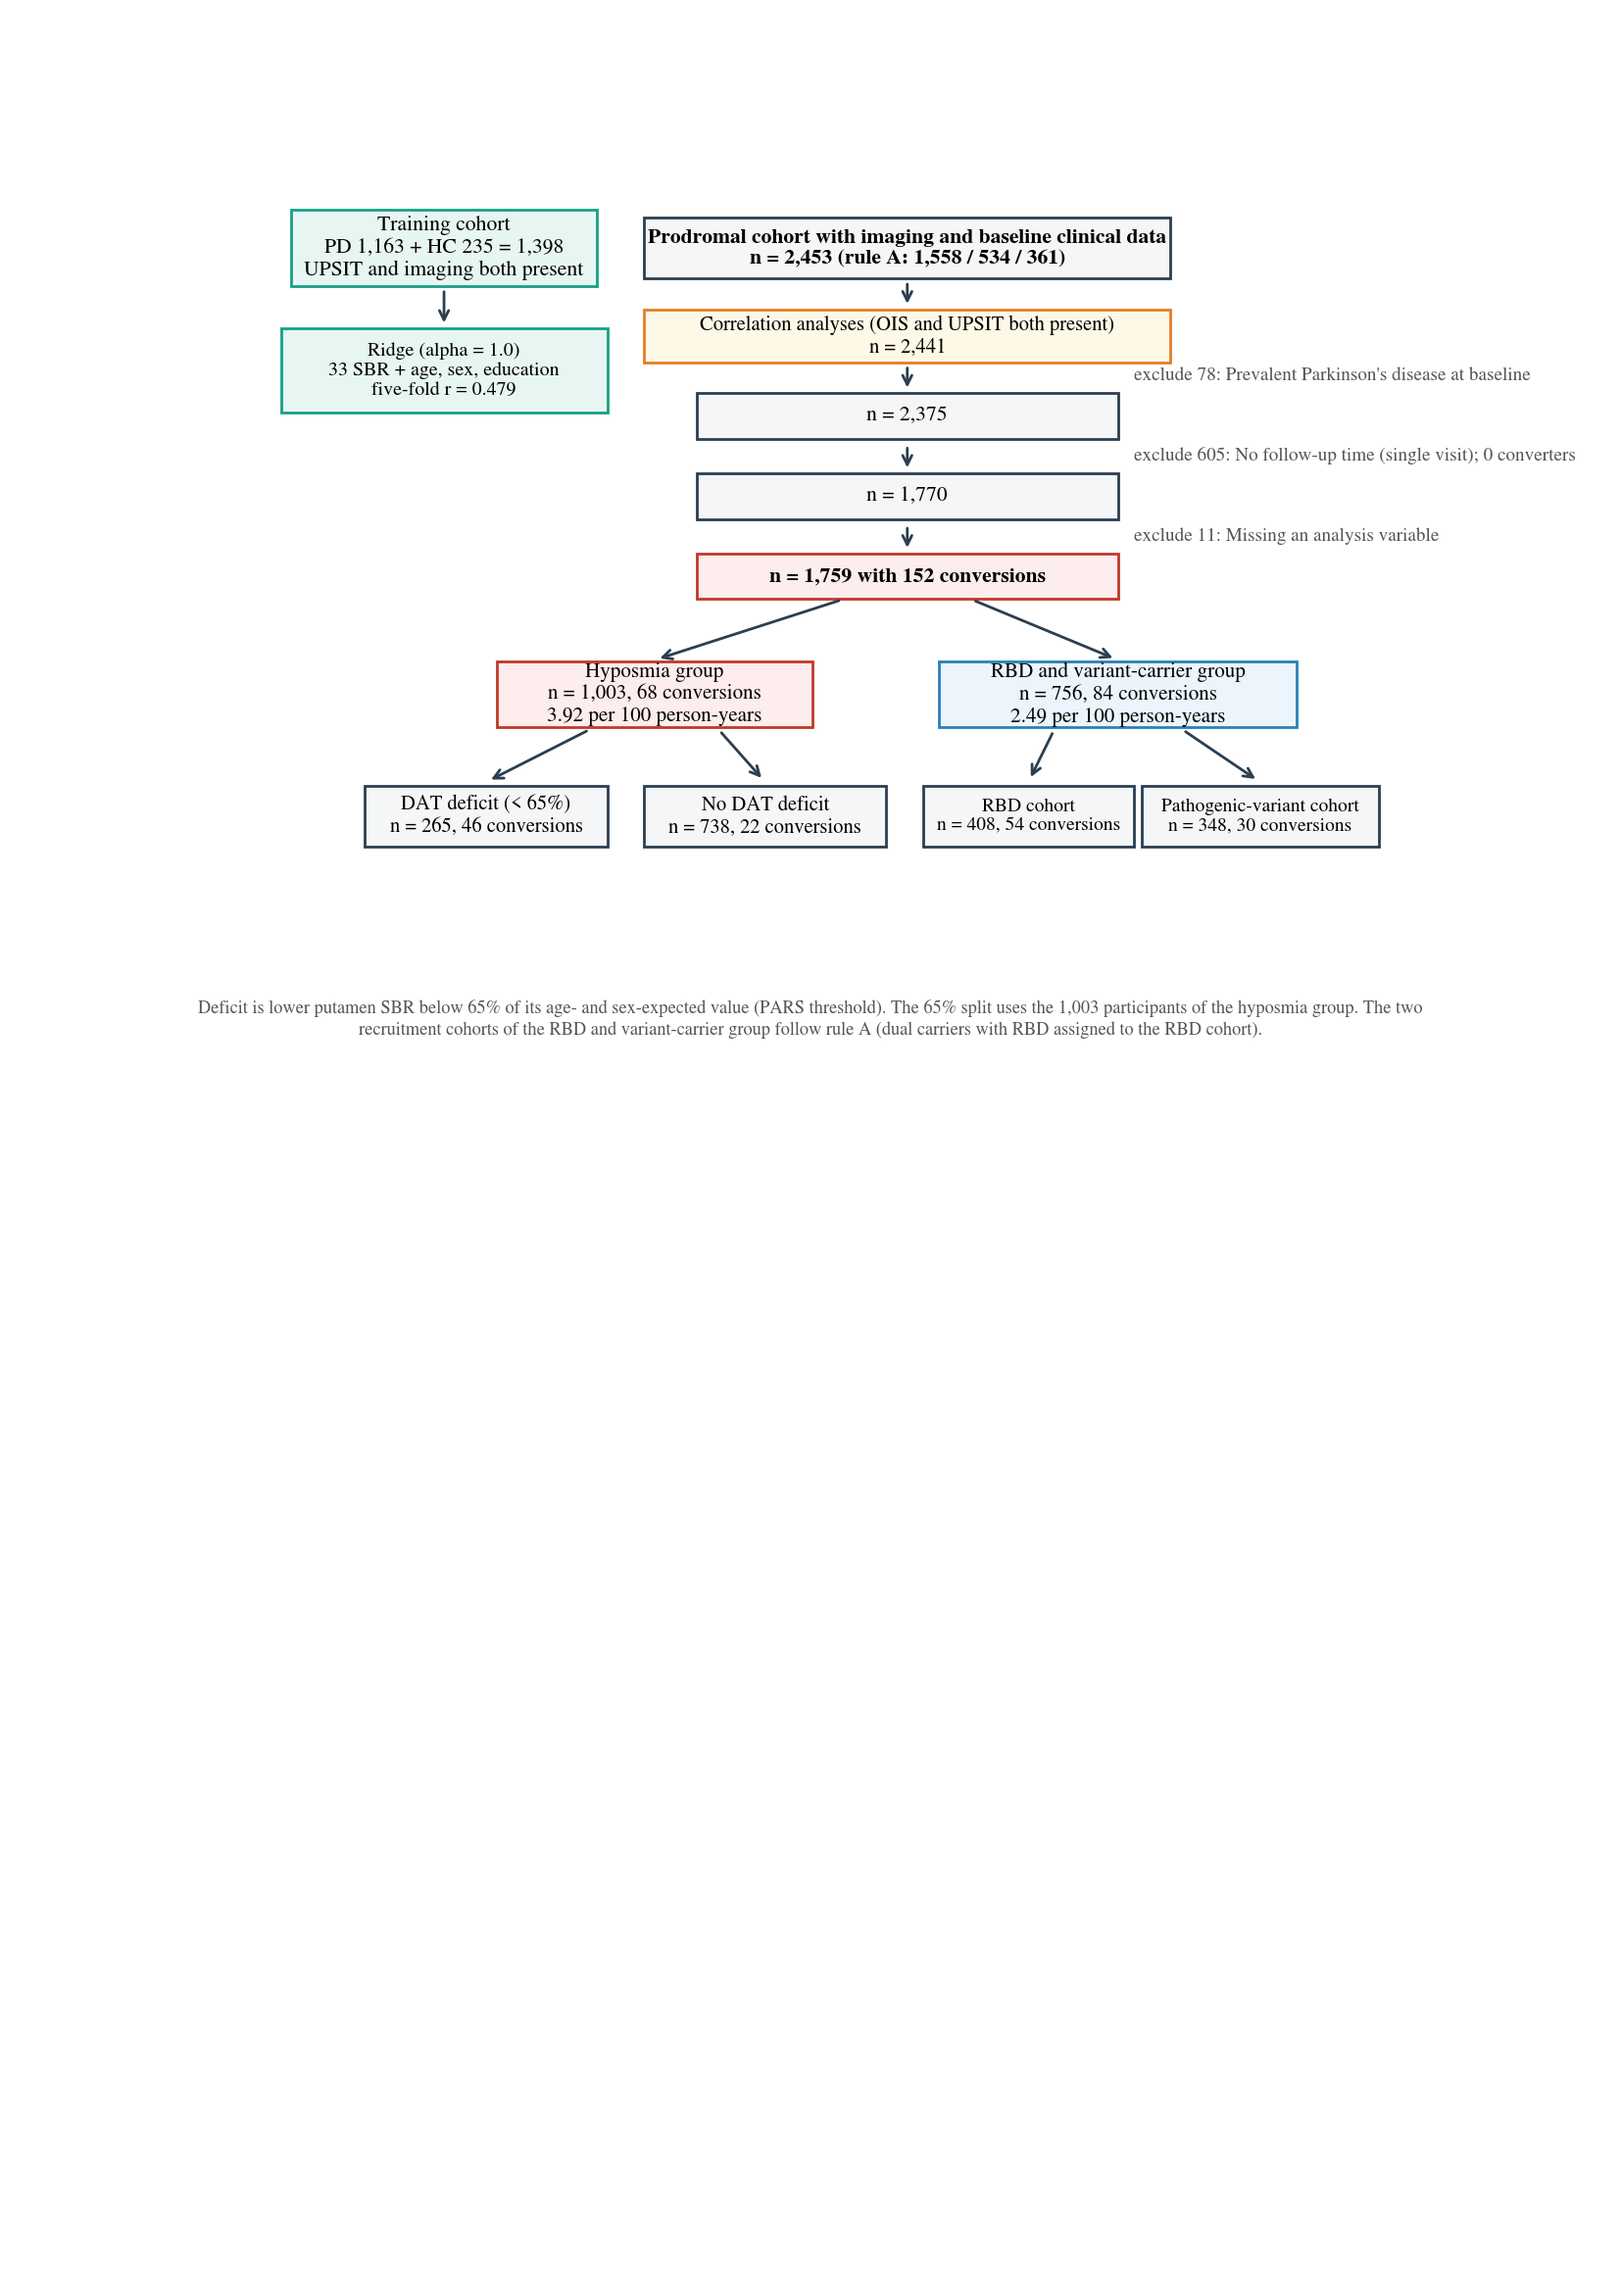
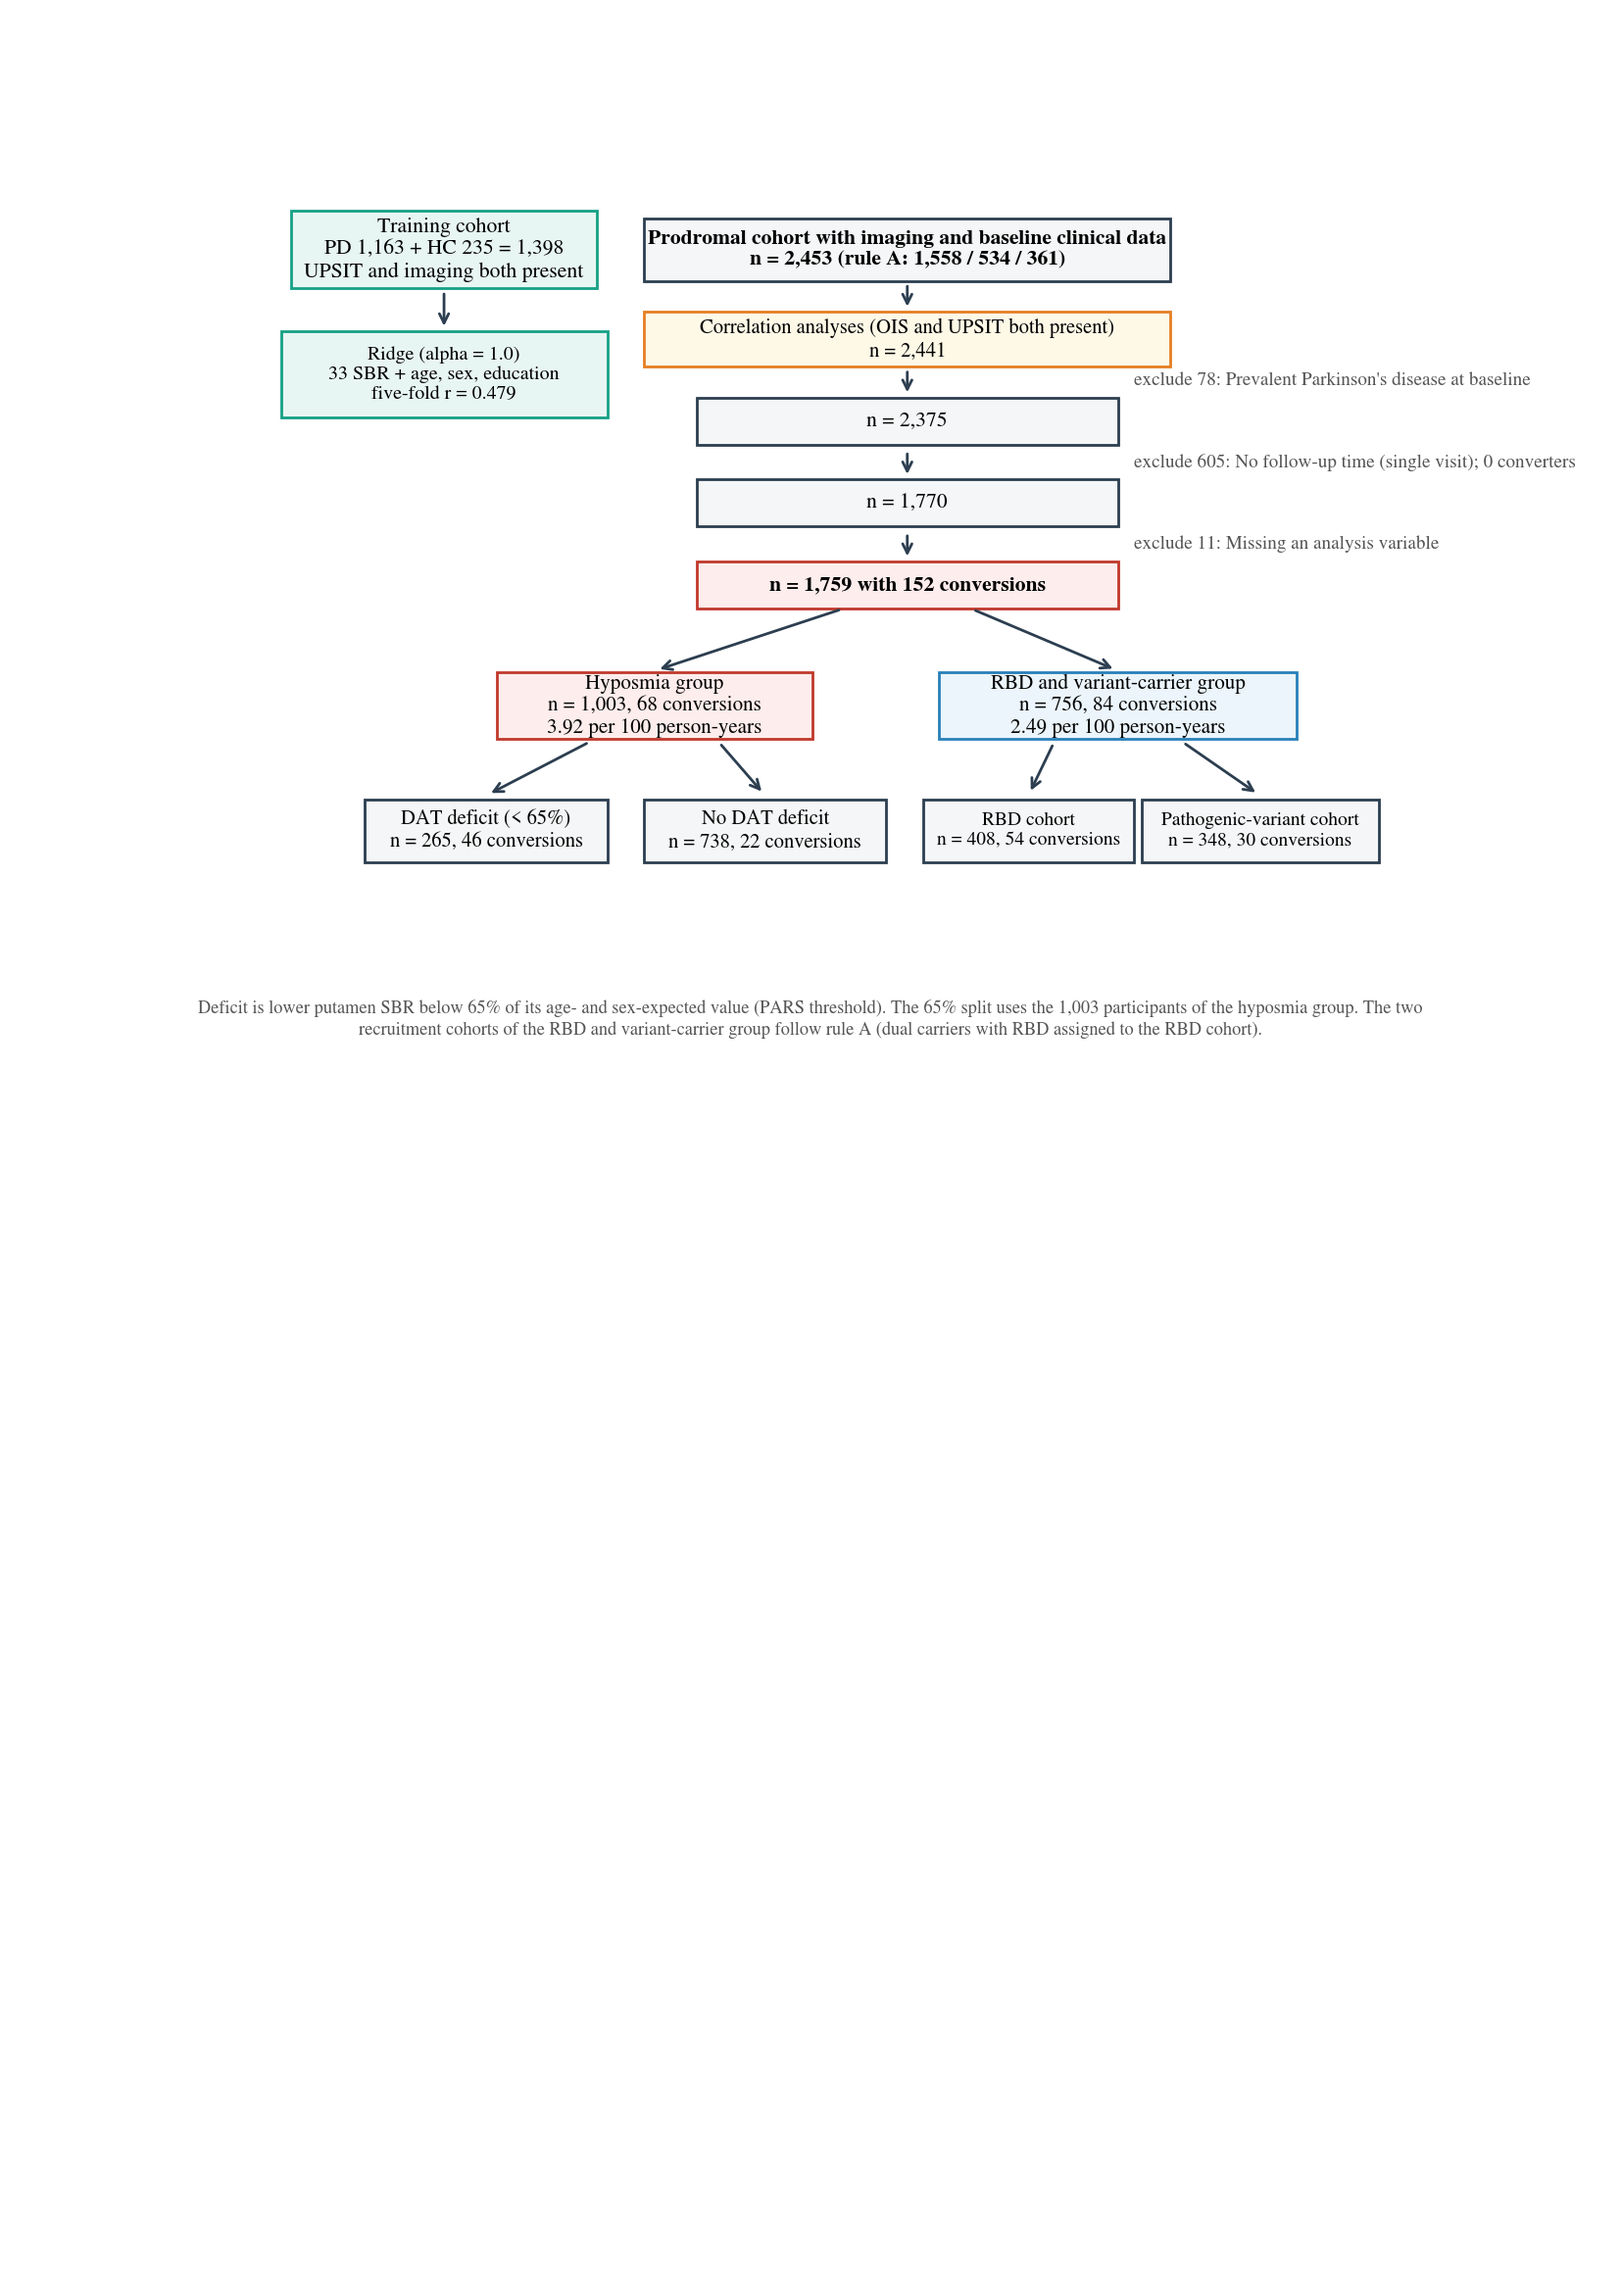
Supplementary Fig 1: tighten the space under the flow chart

diff --git a/code/10_supplementary.py b/code/10_supplementary.py
@@ -155,7 +155,7 @@ def save(fig, name):
 
 def figS1_flow():
     LF = J['layer_flow']; ch = CH.set_index('channel')
-    fig, ax = a4_subplots(1, 1, 9.6, 6.0); ax.set_xlim(0, 10.5); ax.set_ylim(1.0, 10); ax.axis('off')
+    fig, ax = a4_subplots(1, 1, 9.6, 6.0); ax.set_xlim(0, 10.5); ax.set_ylim(1.2, 10); ax.axis('off')
     def box(x, y, w, h, txt, fc='#F4F6F7', ec=DARK, fs=7.8, bold=False):
         ax.add_patch(plt.Rectangle((x - w / 2, y - h / 2), w, h, fc=fc, ec=ec, lw=1.0))
         ax.text(x, y, txt, ha='center', va='center', fontsize=fs, fontweight='bold' if bold else 'normal')
